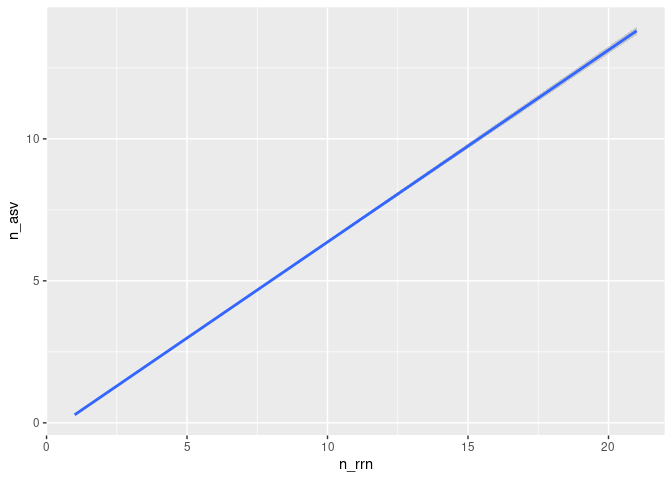
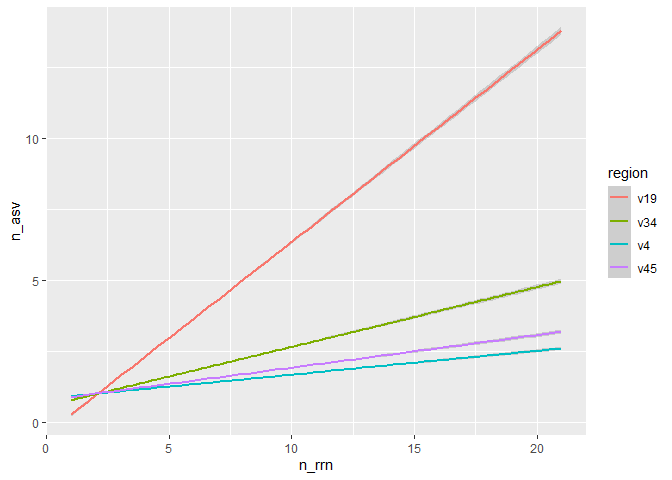
Combine the count_tibble files and update our genome level exploratory analysis, closes #24

diff --git a/exploratory/2022-12-11_genome_sens_spec.md b/exploratory/2022-12-11_genome_sens_spec.md
@@ -13,13 +13,15 @@ library(here)
 Our analysis will use full length sequnces
 
 ``` r
-fl <- read_tsv(here("data/v19/rrnDB.count_tibble"))
+count_tibble <- read_tsv(here("data/processed/rrnDB.count_tibble"),
+                         col_types = "cccd")
 ```
 
 We want to count and plot the number of copies per genome
 
 ``` r
-fl %>% 
+count_tibble %>% 
+    filter(region == "v19") %>%
     group_by(genome) %>%
     summarize(n_rrn = sum(count), .groups = "drop") %>%
     ggplot(aes(x=n_rrn)) + geom_histogram(binwidth = 1)
@@ -28,9 +30,10 @@ fl %>%
 ![](2022-12-11_genome_sens_spec_files/figure-gfm/rrn-1.png)<!-- -->
 
 ``` r
-fl %>% 
+count_tibble %>% 
+    filter(region == "v19") %>%
     group_by(genome) %>%
-    summarize(n_rrn = sum(count), .groups = "drop") %>%
+    summarize(n_rrn = sum(count)) %>%
     count(n_rrn) %>%
     mutate(fraction = n / sum(n))
 ```
@@ -70,44 +73,35 @@ need to know whether the all have the same ASVs. Otherwise we run the
 risk of splitting a single genome into multiple ASVs.
 
 ``` r
-fl %>%
-    group_by(genome) %>%
+count_tibble %>%
+    group_by(region, genome) %>%
     summarize(n_asv = n(), n_rrn = sum(count), .groups = "drop") %>%
-    group_by(n_rrn) %>%
+    group_by(region, n_rrn) %>%
     summarize(med_n_asv = median(n_asv),
+              mean_n_asv = mean(n_asv),
               lq_n_asv = quantile(n_asv, prob=0.25),
-              uq_n_asv = quantile(n_asv, prob=0.75))
+              uq_n_asv = quantile(n_asv, prob=0.75)) %>%
+    filter(n_rrn == 7)
 ```
 
-    ## # A tibble: 20 × 4
-    ##    n_rrn med_n_asv lq_n_asv uq_n_asv
-    ##    <dbl>     <dbl>    <dbl>    <dbl>
-    ##  1     1       1       1         1  
-    ##  2     2       1       1         2  
-    ##  3     3       1       1         2  
-    ##  4     4       2       1         2  
-    ##  5     5       3       1         4  
-    ##  6     6       3       1         4  
-    ##  7     7       5       3         6  
-    ##  8     8       6       4         7  
-    ##  9     9       7       5         8  
-    ## 10    10       7       5         9  
-    ## 11    11       8       6         9  
-    ## 12    12       9       7        10  
-    ## 13    13       9       7        11  
-    ## 14    14       9       7.75     11  
-    ## 15    15      11       9        14  
-    ## 16    16      10       9        14  
-    ## 17    17      14.5    12.5      16.2
-    ## 18    18      14      14        14  
-    ## 19    19      17      17        17  
-    ## 20    21      11      11        11
+    ## `summarise()` has grouped output by 'region'. You can override using the
+    ## `.groups` argument.
+
+    ## # A tibble: 4 × 6
+    ## # Groups:   region [4]
+    ##   region n_rrn med_n_asv mean_n_asv lq_n_asv uq_n_asv
+    ##   <chr>  <dbl>     <dbl>      <dbl>    <dbl>    <dbl>
+    ## 1 v19        7         5       4.51        3        6
+    ## 2 v34        7         2       1.99        1        3
+    ## 3 v4         7         1       1.37        1        1
+    ## 4 v45        7         1       1.54        1        2
 
 ``` r
-fl %>%
-    group_by(genome) %>%
+count_tibble %>%
+    group_by(region, genome) %>%
     summarize(n_asv = n(), n_rrn = sum(count), .groups = "drop") %>%
-    ggplot(aes(x=n_rrn, y=n_asv)) + geom_smooth(method = "lm")
+    ggplot(aes(x=n_rrn, y=n_asv, color=region)) + 
+    geom_smooth(method = "lm")
 ```
 
     ## `geom_smooth()` using formula = 'y ~ x'
@@ -115,7 +109,8 @@ fl %>%
 ![](2022-12-11_genome_sens_spec_files/figure-gfm/unnamed-chunk-2-1.png)<!-- -->
 
 Suprisingly (or not!) the number of ASVs increases at a rate of about 2
-ASVs per 3 copies of *rrn* operon in the genome.
+ASVs per 3 copies of *rrn* operon in the genome. The sub region of the
+16S rRNA region have few ASVs per *rrn* operon.
 
 ### Determine whether an ASV is unique to genomes they are found in
 
@@ -123,113 +118,28 @@ Instead of looking at the number of ASVs per genome, we want to see the
 number of genomes per ASV
 
 ``` r
-fl %>%
-    group_by(asv) %>%
+count_tibble %>%
+    group_by(region, asv) %>%
     summarize(n_genomes = n()) %>%
     count(n_genomes) %>%
-    mutate(fraction = n/sum(n))
+    mutate(fraction = n/sum(n)) %>%
+    filter(n_genomes == 1)
 ```
 
-    ## # A tibble: 98 × 3
-    ##    n_genomes     n fraction
-    ##        <int> <int>    <dbl>
-    ##  1         1 19247  0.824  
-    ##  2         2  2037  0.0872 
-    ##  3         3   675  0.0289 
-    ##  4         4   354  0.0152 
-    ##  5         5   234  0.0100 
-    ##  6         6   116  0.00497
-    ##  7         7    99  0.00424
-    ##  8         8    71  0.00304
-    ##  9         9    73  0.00312
-    ## 10        10    44  0.00188
-    ## # … with 88 more rows
+    ## `summarise()` has grouped output by 'region'. You can override using the
+    ## `.groups` argument.
+
+    ## # A tibble: 4 × 4
+    ## # Groups:   region [4]
+    ##   region n_genomes     n fraction
+    ##   <chr>      <int> <int>    <dbl>
+    ## 1 v19            1 19247    0.824
+    ## 2 v34            1  7240    0.779
+    ## 3 v4             1  4581    0.758
+    ## 4 v45            1  5701    0.777
 
 We see that with full length sequences, thAT 82% of the ASVs were unique
-to a genome.
-
-### Do the sensitivity and specifity change if we look at a shorter region
-
-We know that V4 region is less diverse thatn full length sequence. So
-does the number of ASVs per genome differ than full length? Are ASVs as
-specific when using the V4 region compared to full length sequences?
-
-``` r
-v_four <- read_tsv(here("data/v4/rrnDB.count_tibble"))
-
-# What is the number of ASVs per genome
-v_four %>%
-    group_by(genome) %>%
-    summarize(n_asv = n(), n_rrn = sum(count), .groups = "drop") %>%
-    group_by(n_rrn) %>%
-    summarize(mean_n_asv = mean(n_asv),
-              lq_n_asv = quantile(n_asv, prob=0.25),
-              uq_n_asv = quantile(n_asv, prob=0.75))
-```
-
-    ## # A tibble: 20 × 4
-    ##    n_rrn mean_n_asv lq_n_asv uq_n_asv
-    ##    <dbl>      <dbl>    <dbl>    <dbl>
-    ##  1     1       1           1      1  
-    ##  2     2       1.07        1      1  
-    ##  3     3       1.08        1      1  
-    ##  4     4       1.16        1      1  
-    ##  5     5       1.34        1      2  
-    ##  6     6       1.23        1      1  
-    ##  7     7       1.37        1      1  
-    ##  8     8       1.66        1      2  
-    ##  9     9       1.53        1      2  
-    ## 10    10       1.82        1      2  
-    ## 11    11       2.01        1      2  
-    ## 12    12       1.83        1      2  
-    ## 13    13       1.90        1      2  
-    ## 14    14       2.38        1      3  
-    ## 15    15       2.65        1      3.5
-    ## 16    16       1.6         1      2  
-    ## 17    17       3.6         1      4  
-    ## 18    18       2           2      2  
-    ## 19    19       3           3      3  
-    ## 20    21       1           1      1
-
-``` r
-v_four %>%
-    group_by(genome) %>%
-    summarize(n_asv = n(), n_rrn = sum(count), .groups = "drop") %>%
-    ggplot(aes(x=n_rrn, y=n_asv)) + geom_smooth(method = "lm")
-```
-
-![](2022-12-11_genome_sens_spec_files/figure-gfm/read_v4-1.png)<!-- -->
-
-The number of ASV per copy of *rrn* operon is lower than for full length
-sequences. We find 1.5 ASV per 10 copies of the *rrn* operon.
-
-Next, let’s look at the specifity of an ASV for a genome
-
-``` r
-v_four %>%
-    group_by(asv) %>%
-    summarize(n_genomes = n()) %>%
-    count(n_genomes) %>%
-    mutate(fraction = n/sum(n))
-```
-
-    ## # A tibble: 79 × 3
-    ##    n_genomes     n fraction
-    ##        <int> <int>    <dbl>
-    ##  1         1  4581  0.758  
-    ##  2         2   643  0.106  
-    ##  3         3   257  0.0425 
-    ##  4         4   118  0.0195 
-    ##  5         5    81  0.0134 
-    ##  6         6    49  0.00811
-    ##  7         7    41  0.00678
-    ##  8         8    29  0.00480
-    ##  9         9    25  0.00414
-    ## 10        10    23  0.00381
-    ## # … with 69 more rows
-
-We find that about 76% of ASVs using the V4 region were specific to a
-genome.
+to a genome. For the sub regions, about 76% were unique to a genome.
 
 ### To be determined…
 
